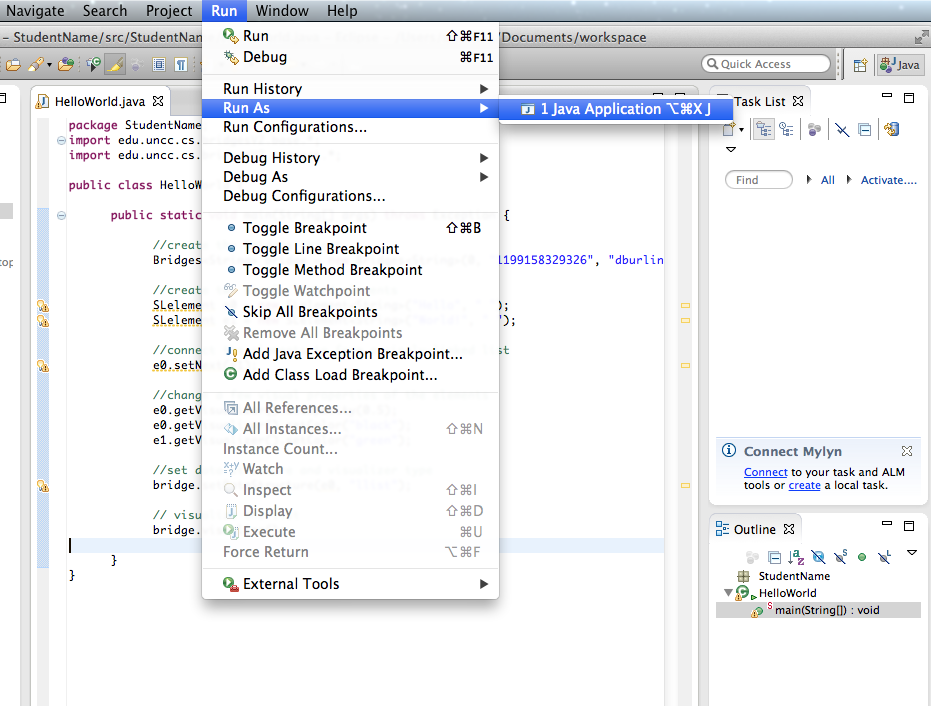
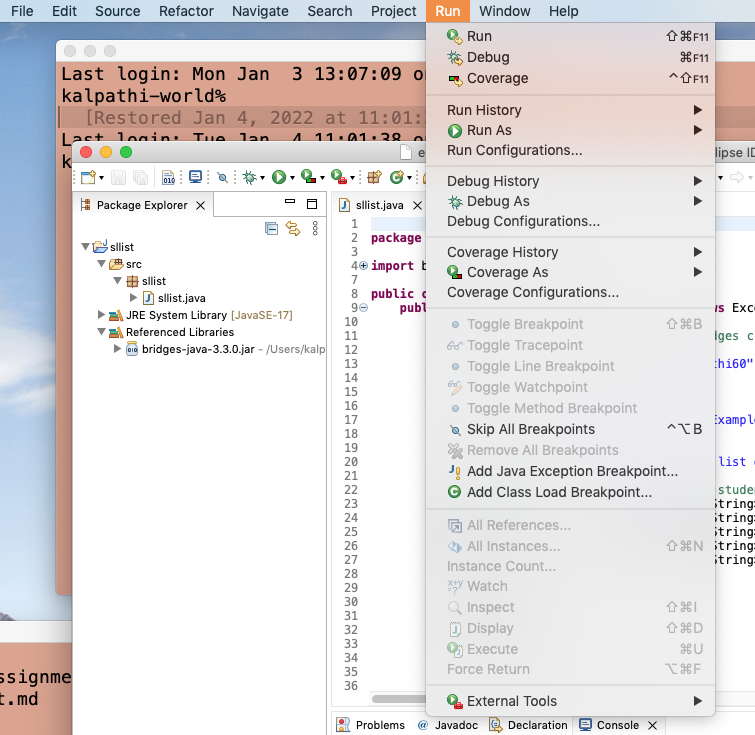
updated eclipse tutorial

diff --git a/bridges_setup_java_eclipse.html b/bridges_setup_java_eclipse.html
@@ -24,6 +24,7 @@
     </div>
     
     <h2>BRIDGES (Java): Getting Started (Setup)</h2>
+	<i> Note. The following set up instructions used Eclipse Version 2021-12(4.22.0) which was running JRE 17 on OSX; BRIDGES requires the use of Java 8 or later</i> <br> <p>
     <table class = "setup_table-part1">
       <thead>
 	<tr> 
@@ -31,7 +32,7 @@
 	  <ul> <li> If you do not have Eclipse 
 	      installed, download it from the 
 	      <a href = "http://www.eclipse.org/downloads"> Eclipse site</a> 
-	      and install it on your computer <b>(Eclipse IDE 2020-09)</b>. 
+	      and install it on your computer <b>(Eclipse IDE 2020-09)</b>.
 	  </ul>
 	</tr>
 	<tr> 
@@ -70,11 +71,12 @@
 	      <li> In the new window change the <i>Project name</i> 
 		field to your project name, then make sure the 
 		<i>JRE Execution Environmen</i> is <b>JavaSE-8 or above </b>. 
+        Here we are using Java version 17.
 		Click <i>Finish</i>  n the lower right-hand corner.
 	    </ul>
 	  </td>
 	  <td class = "col-md-8">  
-	    <img src = "./img/Tutorialv2/JavaProject.png" width = "800"></img>
+	    <img src = "./img/Tutorialv2/JavaVersion.png" width = "800"></img>
 	  </td>
 	</tr>
 	<tr> <td class = "col-md-2"> <b>Step 5a: Import Jar File into project</b>
@@ -83,10 +85,11 @@
 		<a href = "http://bridgesuncc.github.io">
 		  Bridges home page </a> and save it somewhere convenient on your drive.
 	      <li> On Eclipse, right-click your project in the 
-		Package Explorer window then click: 
-		<i> Build Path --> Add External Archives</i>
+		Package Explorer window then click on Properties; you will see a 
+		dialog widget come up. Navigate  to   
+		<i> Java Build Path --> Class Path</i> and then click on <i>Add External Jars </i>. You should see the following configuration.
 	    </ul>
-	  <td class = "col-md-8"> <img src = "./img/Tutorialv3/addArchive.png" width = "800"></img>
+	  <td class = "col-md-8"> <img src = "./img/Tutorialv2/addArchive.png" width = "800"></img>
           </td>
 	</tr>
 	<tr>
@@ -97,7 +100,7 @@
 	    </ul>
 	  </td>
 	  <td class = "col-md-8">  
-	    <img src = "./img/Tutorialv3/bridges_jar.png" width = "800"></img>
+	    <img src = "./img/Tutorialv2/bridges_jar.png" width = "800"></img>
 	  </td>
 	</tr>
 	<tr>
@@ -114,7 +117,7 @@
 	    </ul>
 	  </td>
 	  <td class = "col-md-8">  
-	    <img src = "./img/Tutorialv3/ReferencedLib.png" width = "800"></img>
+	    <img src = "./img/Tutorialv2/referenced_lib.png" width = "500"></img>
 	  </td>
 	</tr>
       </thead>
@@ -290,9 +293,7 @@
 <tr> 
   <td class = "col-md-2"> <b>Step 3: Running your Bridges program</b>
     <ul>
-      <li> Once your code is in, run your project
-      <li> <i> Run-->Run </i>
-      <li> <i> Run-->Run As -->Java Application</i>
+      <li> Once your code is in, run your project; the first time you might need to choose Run as --> Java Application. After that hitting the Play button would suffice.
     </ul>
   </td>
   <td class = "col-md-8">
